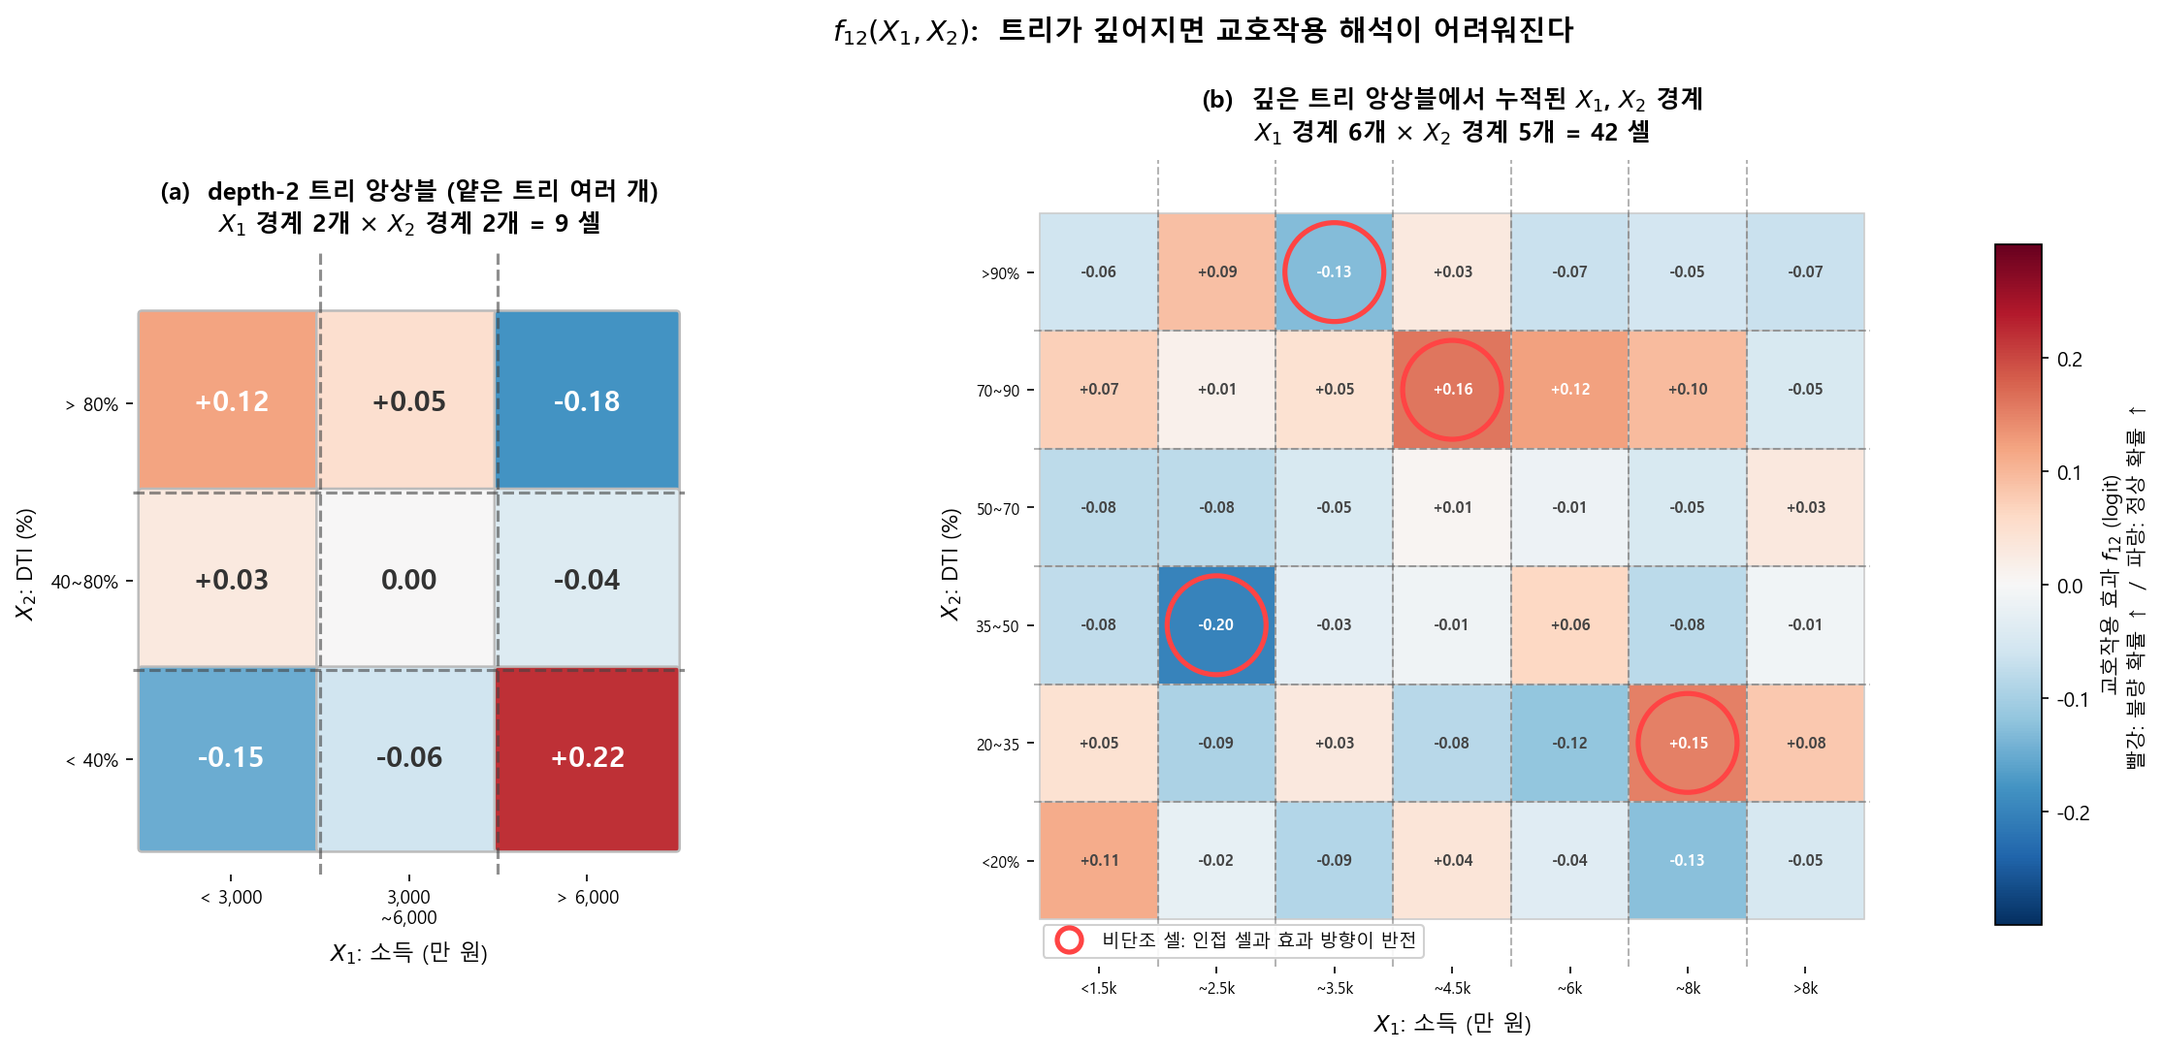
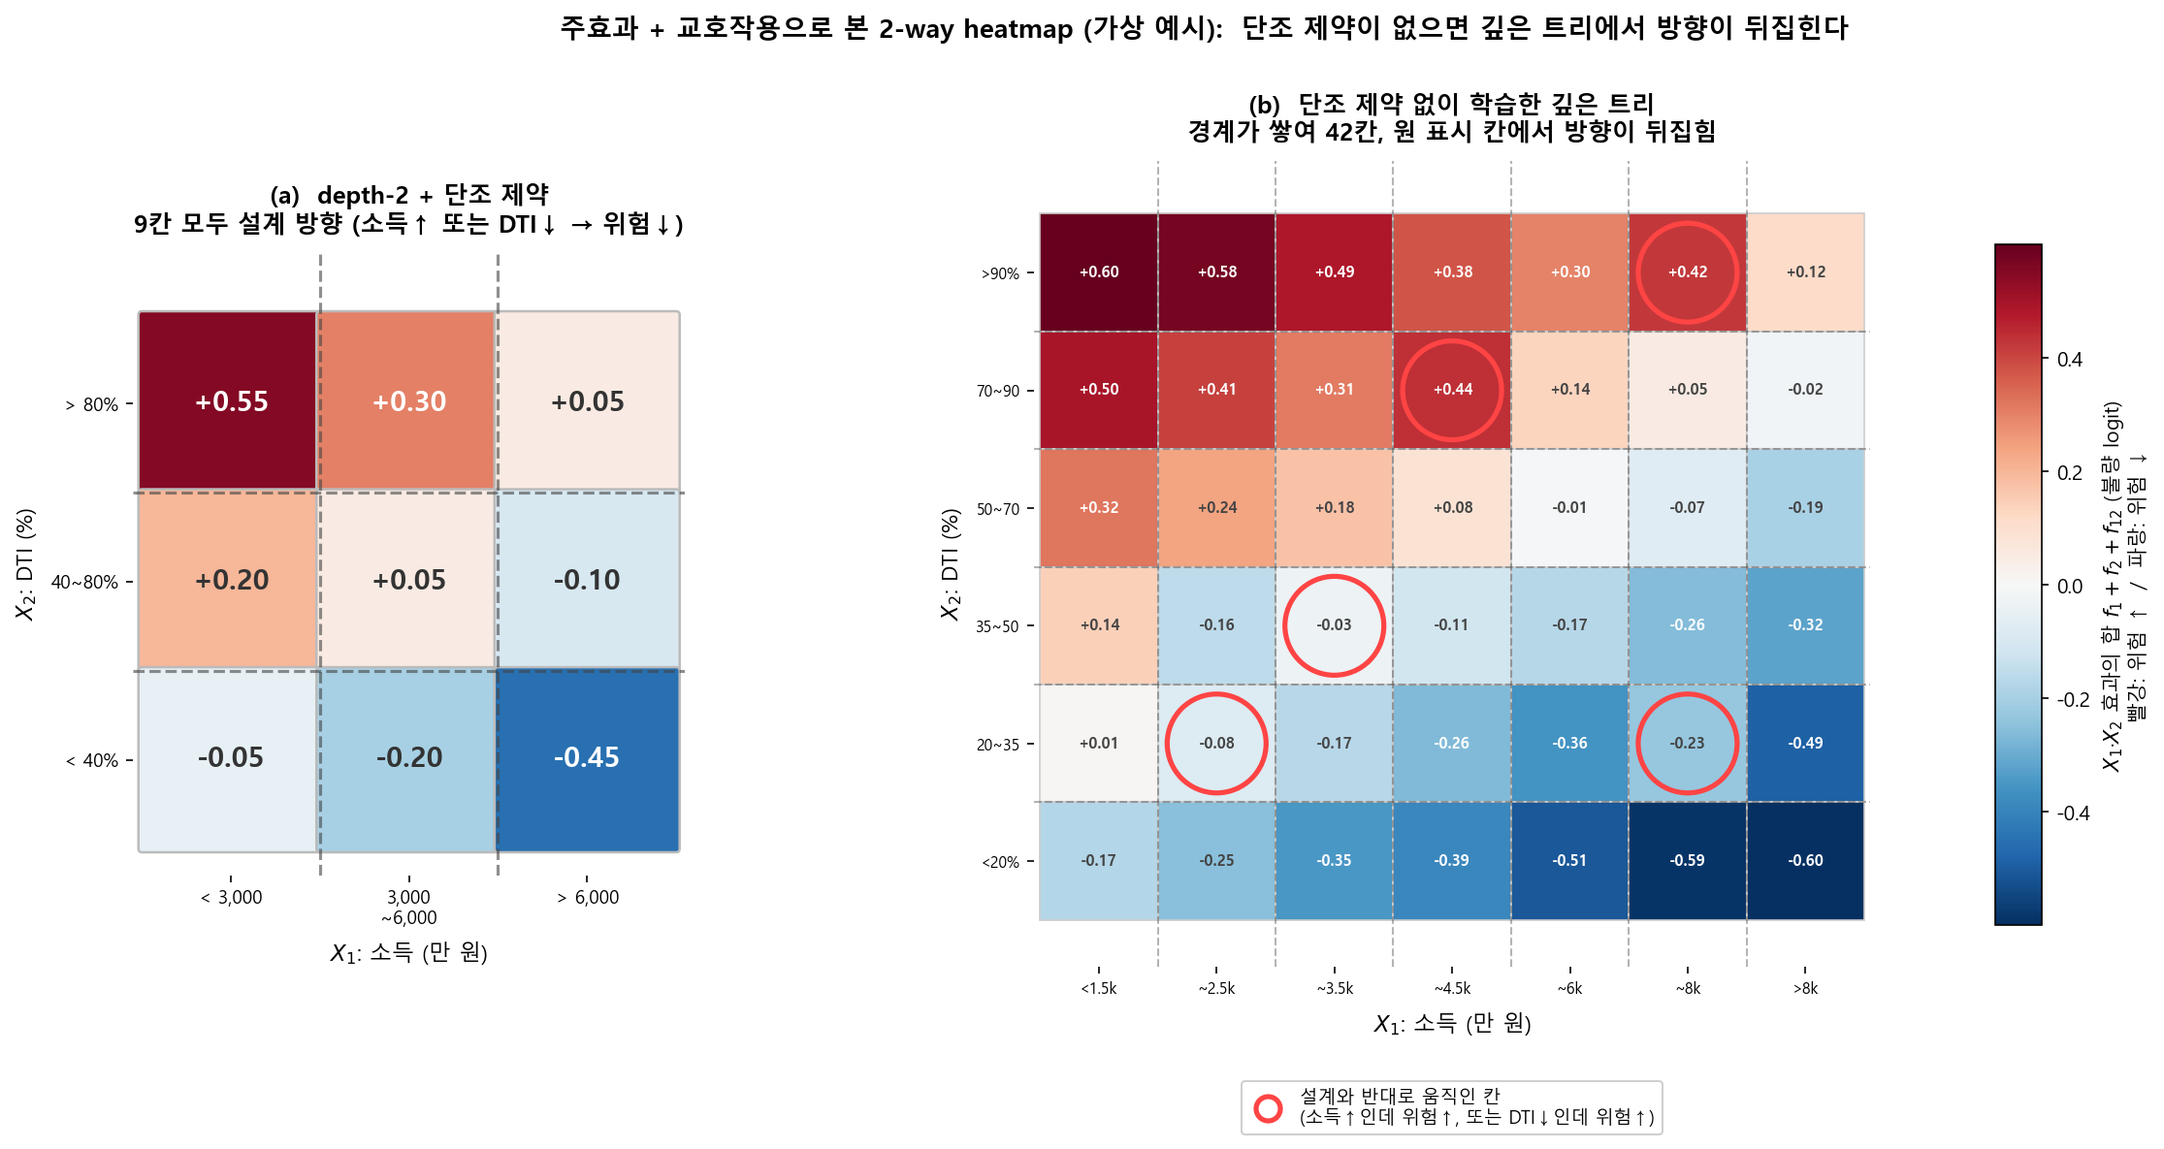
docs: ML 해석 — 단조 제약의 보장 범위 정리와 2-way heatmap 그림 교체
- 해석 가능성 1.4절에 '단조 제약은 어디까지 지켜 주나' 신설: 학습된 모형(보장) / 교호작용 표 단독(+·− 섞임 정상) / 점수표(깊이 2·독립 가중이면 보장, 3-way 절단·joint 가중·반올림 시 깨질 수 있음), 연체 Y/N 예시와 깊이 2 증명
- 2-way heatmap을 주효과+교호작용 합산 표로 다시 그림(왼쪽 깊이2+단조 제약, 오른쪽 단조 제약 없는 깊은 트리)
- ML 4부·부록·트리 앙상블·검증 등 21개 페이지에서 단조 제약 전제 누락, 단조 대상 혼동, 해석 조건 불일치 정정

diff --git a/docs/ml/appendix/shap-fanova/shap-vs-fanova.md b/docs/ml/appendix/shap-fanova/shap-vs-fanova.md
@@ -79,14 +79,14 @@ fANOVA는 교호작용을 분배하지 않고, **별도의 항으로 분리**한
 
 이 질문에 SHAP으로 답하면:
 
-- 소득의 SHAP 값에 교호작용 기여분이 섞여 있으므로, 특정 구간에서 **비단조적 패턴**이 나타날 수 있다
+- 소득의 SHAP 값에 교호작용 기여분이 섞여 있으므로, 여러 고객의 SHAP 값을 소득 순으로 늘어놓으면 특정 구간에서 **비단조적 패턴**이 나타날 수 있다
 - 이것이 소득 자체의 비단조성인지, 다른 변수와의 교호작용 때문인지 변수별 SHAP 값만으로는 **구분하기 어렵다**
 - 분해 방식에 따라 주효과의 부호까지 달라질 수 있다는 점은 실제 데이터에서도 확인되었다. Lengerich et al. (2020, 6.1절)의 COMPAS 실험에서, 교호작용 없이 학습한 XGBoost의 주효과 다수가 GAM이나 purification을 거친 모형들의 주효과와 반대 부호였다([3절](purification.md) 참조)
 
 fANOVA(+ purification)로 답하면:
 
 - 주효과 \(f_1(X_1)\)은 소득만의 효과로 분리되어 있으므로, 단조성 여부를 **직접** 확인할 수 있다
-- 비단조적 패턴이 있다면 그것은 교호작용이 아니라 **소득 자체의 비선형성**이다
+- product measure로 분해한 주효과에 비단조 구간이 있다면, 그것은 교호작용 탓이 아니라 모형이 소득에 반응하는 방식 자체다
 - 모형 학습 시 소득에 단조 제약을 걸었다면, product measure로 구한 주효과는 단조 함수들의 평균이므로 **반드시 단조**다. 반면 상관을 반영한 joint measure의 주효과나 SHAP 값은 단조 제약 모형에서도 단조가 보장되지 않는다([부록 B 5절](../correlation-interpretation/practical-guide.md))
 
 ## 공통 한계 — 분포 선택이 해석을 바꾼다
@@ -136,7 +136,7 @@ GA\(^2\)M(EBM)이나 depth-2 트리처럼 교호작용을 2-way로 제한한 모
 | \(f_{\text{소득,부채}}(5000, 2000)\) | -0.4 | 소득×부채 순수 교호작용 |
 | **합계** | **-0.1** | 이 고객의 예측값 |
 
-교호작용을 변수에 나눠줄 필요 없이, **별도의 설명 항목으로 그대로 제시**하면 된다. \(f_{12}\)는 2차원 heatmap으로 시각화도 가능하다. 이 방식은 SHAP보다 **더 정직한 설명**이다 — 교호작용이 숨겨지지 않고, 무엇이 주효과이고 무엇이 교호작용인지 명확히 구분되니까.
+교호작용을 변수에 나눠줄 필요 없이, **별도의 설명 항목으로 그대로 제시**하면 된다. \(f_{12}\)는 2차원 heatmap으로 시각화도 가능하다. 단, 순수 교호작용 표는 주효과에 더하는 보정값이라 +와 −가 섞이는 것이 정상이며, 방향은 주효과와 더한 표로 읽는다. 이 방식은 SHAP보다 **더 정직한 설명**이다 — 교호작용이 숨겨지지 않고, 무엇이 주효과이고 무엇이 교호작용인지 명확히 구분되니까.
 
 EBM이 이 전략을 쓴다. 교호작용을 **2-way까지만 허용**하고 (GA\(^2\)M의 "²"이 그 뜻이다), 그 중에서도 FAST 알고리즘으로 **유의미한 pair만 선별**한다. 변수 20개 모형이라면:
 
@@ -152,12 +152,12 @@ depth가 깊어져서 \(X_1, X_2, X_3\)가 혼재된 3-way interaction이 나타
 
 <figure markdown="span">
   ![2-way interaction heatmap](images/interaction_2way.png){ width="780" }
-  <figcaption>2-way interaction은 heatmap 한 장으로 패턴이 보인다. 트리가 깊어지고 많아질수록 분할 경계가 누적되어 셀 수가 늘고, 인접 셀끼리 효과 방향이 뒤집히는 구간이 생겨 읽기 어려워진다.</figcaption>
+  <figcaption>2-way까지는 heatmap 한 장으로 볼 수 있다. 두 그림 모두 주효과와 교호작용을 더한 값이다(가상 예시). 왼쪽은 깊이 2에 단조 제약을 건 모형으로 9칸 모두 설계 방향이고, 오른쪽은 단조 제약 없이 깊게 학습한 모형으로 분할 경계가 쌓여 42칸이 되고 원으로 표시한 칸에서 방향이 뒤집힌다. 단조 제약을 걸면 깊은 모형도 방향은 뒤집히지 않지만, 칸이 많아 검토하기 어려운 문제는 남는다.</figcaption>
 </figure>
 
 <figure markdown="span">
   ![3-way interaction cube](images/interaction_3way_cube.png){ width="480" }
-  <figcaption>3-way interaction은 3차원 큐브가 된다. 8개 셀의 방향과 크기를 직관적으로 파악할 수 있는가?</figcaption>
+  <figcaption>3-way interaction은 3차원 큐브가 된다. 각 칸은 주효과와 2-way 합에 더하는 보정값인데, 8개 칸의 방향과 크기를 직관적으로 파악할 수 있는가?</figcaption>
 </figure>
 
 **항 수의 폭발**: 변수 20개에서 가능한 interaction 수:
@@ -170,7 +170,7 @@ depth가 깊어져서 \(X_1, X_2, X_3\)가 혼재된 3-way interaction이 나타
 
 3-way만 허용해도 1,140개의 interaction 항이 가능하다. 이 중 유의미한 것만 선별하더라도, **하나하나의 해석 자체가 어렵다** (3차원을 직관적으로 이해하기 힘드니까). 항 수의 문제와 개별 항의 이해 가능성 문제가 동시에 발생한다.
 
-이때 SHAP이 빛을 발한다: 교호작용 차수가 아무리 높아도 **변수당 숫자 하나**로 요약해주므로, depth-6 XGBoost 같은 블랙박스에서도 개별 샘플 설명이 가능하다. 교호작용 정보가 숨겨지는 대가를 치르지만, 3-way 이상에서는 그 교호작용을 어차피 해석할 수 없으니 합리적 트레이드오프다.
+이때 SHAP이 빛을 발한다: 교호작용 차수가 아무리 높아도 **변수당 숫자 하나**로 요약해주므로, depth-6 XGBoost 같은 블랙박스에서도 개별 샘플 설명이 가능하다. 교호작용 정보가 숨겨지는 대가를 치르지만, 3-way 이상에서는 그 교호작용을 어차피 해석할 수 없으니 합리적 트레이드오프다. 반대로 이런 모형의 3-way 이상 항을 버리고 주효과와 2-way 표만으로 점수표를 만들면, 단조 제약을 걸었더라도 일부 칸의 방향이 뒤집힐 수 있다([단조 제약은 어디까지 지켜 주나](../../part4_interpretation/interpretability.md#monotone-guarantee)).
 
 **참고 — "설명 가능한 depth 제한"**: depth가 깊더라도, 한 트리 안에서 함께 쓸 수 있는 변수를 2개로 묶어 두면 각 pair는 2D heatmap으로 표현할 수 있다. XGBoost와 LightGBM은 이런 용도의 교호작용 제약(interaction constraints) 옵션을 제공한다. 핵심은 트리의 depth가 아니라 **하나의 interaction 항에 관여하는 변수 수**다. EBM이 2-way로 제한하는 것은 바로 이 이유 — 2차원까지는 그림으로 보여줄 수 있고, 3차원부터는 안 되기 때문이다. 이 가이드북이 해석 조건으로 삼는 "교호작용 2-way 이하, 단조 제약, 점수표 환산 가능"([해석 가능성](../../part4_interpretation/interpretability.md))도 같은 이유에서 나온다.
 

diff --git a/docs/ml/appendix/correlation-interpretation/practical-guide.md b/docs/ml/appendix/correlation-interpretation/practical-guide.md
@@ -58,10 +58,12 @@ fANOVA로 분산 분해를 보고할 때는 교차공분산 항을 함께 계산
 단조 제약(monotone constraint)은 상관 문제를 직접 해결하지는 않지만, 해석의 안정성을 높인다. 학습 시 어떤 변수에 단조 제약을 걸면, **다른 변수의 값을 어떻게 고정하든** 그 변수에 대해 모형 출력이 단조가 된다. 그 결과:
 
 - **product measure fANOVA의 주효과, PDP, ALE**: 단조 함수들의 평균(또는 단조 증가분의 누적)이므로 **반드시 단조**다.
-- **joint measure fANOVA의 주효과, observational 기대값**: 상관된 변수의 효과가 섞이므로 단조가 **보장되지 않는다.**
-- **SHAP 값**: 교호작용의 몫과 다른 변수와의 상관이 섞이므로, 같은 변수의 SHAP 값을 변수 값 순으로 늘어놓아도 단조가 **보장되지 않는다.**
+- **joint measure fANOVA의 주효과**: 가중이 변수 값마다 달라 '단조 함수들의 고정 가중 평균'이 아니므로 단조가 **보장되지 않는다.**
+- **observational 기대값**: 상관된 변수의 효과가 섞여 방향이 반대로 나올 수도 있다.
+- **SHAP dependence plot**(여러 고객의 SHAP 값을 변수 값 순으로 늘어놓은 그림): 고객마다 다른 변수 값이 달라 교호작용의 몫이 다르므로 단조 곡선으로 보이지 않을 수 있다. 다만 interventional SHAP은 한 고객의 다른 변수를 고정한 채 그 변수만 바꾸면 단조로 변한다(배경 데이터 위에서 단조 함수를 평균한 값이기 때문이다). observational·path-dependent SHAP은 이것도 보장되지 않는다.
+- **교호작용 표 단독**: 주효과에 더하는 보정값이라 +와 −가 섞이는 것이 정상이다. 방향은 주효과와 더한 표로 읽는다.
 
-즉 단조 제약 모형이라면, 효과 방향을 점검할 때는 단조성이 보장되는 interventional 계열의 결과를 기준으로 삼는 것이 일관적이다. 이 가이드북이 해석 가능한 ML의 조건으로 제시하는 "교호작용 2-way 이하, 단조 제약, 점수표 환산 가능"([해석 가능성](../../part4_interpretation/interpretability.md))은 이런 점검을 가능하게 하는 최소 조건이기도 하다.
+즉 단조 제약 모형이라면, 효과 방향은 product measure 주효과·PDP·ALE나 고객 단위의 interventional SHAP처럼 단조가 보장되는 결과로 점검하는 것이 일관적이다. 모형을 점수표로 옮길 때 방향이 깨질 수 있는 경우(깊은 모형의 3-way 이상 항 절단, joint 가중 분해, 항별 반올림)는 [단조 제약은 어디까지 지켜 주나](../../part4_interpretation/interpretability.md#monotone-guarantee)에 정리했다. 이 가이드북이 해석 가능한 ML의 조건으로 제시하는 "교호작용 2-way 이하, 단조 제약, 점수표 환산 가능"([해석 가능성](../../part4_interpretation/interpretability.md))은 이런 점검을 가능하게 하는 최소 조건이기도 하다.
 
 ## 5.6 신용평가에서의 실무 권장
 

diff --git a/docs/ml/part3_tree_ensemble/hyperparameter_tuning.md b/docs/ml/part3_tree_ensemble/hyperparameter_tuning.md
@@ -1,7 +1,7 @@
 # 하이퍼파라미터 튜닝
 
 !!! quote "설계 사상"
-    잘 튜닝된 XGBoost와 잘 튜닝된 LightGBM의 성능 차이는 대개 작다. 튜닝에서 더 중요한 것은 **무엇을 기준으로 고르는가**다. 신용평가에서는 valid 성능이 가장 높은 조합이 아니라, train·valid·OOT 성능이 안정적이고 해석 조건(단조성, 교호작용 제한)을 만족하는 **똑똑한 모형**을 고른다. 이 페이지는 그 기준 아래에서 각 파라미터를 어떻게 다루는지 정리한다.
+    잘 튜닝된 XGBoost와 잘 튜닝된 LightGBM의 성능 차이는 대개 작다. 튜닝에서 더 중요한 것은 **무엇을 기준으로 고르는가**다. 신용평가에서는 valid 성능이 가장 높은 조합이 아니라, train·valid·OOT 성능이 안정적이고 해석 조건(교호작용 2-way 이하, 단조성, 점수표 환산 가능)을 만족하는 **똑똑한 모형**을 고른다. 이 페이지는 그 기준 아래에서 각 파라미터를 어떻게 다루는지 정리한다.
 
 ---
 
@@ -66,8 +66,8 @@ $$
 
 신용평가에서 해석 가능한 ML을 만들 때 가장 중요한 두 파라미터다. 작동 원리는 [Boosting 심화](boosting_advanced.md)에서 다뤘다.
 
-- **단조 제약**: 연체 일수(+1, 위험 증가), 소득(−1)처럼 방향이 분명한 변수에 건다. 방향 근거가 없는 변수는 0(제약 없음)으로 둔다. 이 가이드북의 WoE 정의(\(\ln(\%\text{Good}/\%\text{Bad})\))로 변환한 변수를 넣는다면 방향은 모두 −1이다
-- **교호작용 제약**: 업무적으로 의미 있는 변수 쌍만 그룹으로 지정해, 교호작용을 그 쌍 안에서만 허용한다. `max_depth=2`와 함께 쓰면 교호작용이 2-way로 제한된다
+- **단조 제약**: 연체 일수(+1, 위험 증가), 소득(−1)처럼 방향이 분명한 변수에 건다. 방향 근거가 없는 변수는 0(제약 없음)으로 둔다. Bad 확률을 예측하는 모형에 이 가이드북의 WoE 정의(\(\ln(\%\text{Good}/\%\text{Bad})\))로 변환한 변수를 넣는다면 방향은 모두 −1이다
+- **교호작용 제약**: 업무적으로 의미 있는 변수 쌍만 그룹으로 지정해, 교호작용을 그 쌍 안에서만 허용한다. 그룹을 모두 변수 쌍으로 지정하면 깊이와 무관하게 교호작용이 2-way 이하로 제한되고, 변수 3개 이상인 그룹이 있다면 `max_depth=2`를 함께 써야 2-way가 보장된다
 
 제약을 걸면 학습 데이터 성능은 대개 조금 떨어지지만, train↔valid 격차가 줄고 해석 검토가 가능해진다. 제약 전후의 KS, AR을 OOT에서 비교해 판단한다. 해석 가능 조건의 기준은 [해석 가능성](../part4_interpretation/interpretability.md)에 정리되어 있다.
 

diff --git a/docs/ml/part5_validation/validation.md b/docs/ml/part5_validation/validation.md
@@ -104,12 +104,12 @@ Cross Matrix로 현행 모형과 ML을 함께 쓰는 하이브리드 구조는 [
 
 | 점검 대상 | 방법 |
 |---|---|
-| **변수별 방향** | SHAP dependence plot, PDP·ICE로 변수 값이 커질 때 예측 위험이 어느 방향으로 움직이는지 확인 |
-| **국소적 역전** | 전체 추세는 맞는데 특정 구간에서만 역전되는지(표본이 적은 극단 구간에서 흔함) 확인 |
+| **변수별 방향** | 고객 단위 ICE(다른 변수를 고정하고 그 변수만 바꿔 본 예측)로 모형 자체의 방향을 확인하고, SHAP dependence plot·PDP로 전체 경향을 본다. 교호작용 표 하나만 보고 +와 −가 섞였다고 위반으로 판단하지 않는다 |
+| **국소적 역전** | 전체 추세는 맞는데 특정 구간에서만 역전되는지 확인. 단조 제약이 없는 변수에서 표본이 적은 극단 구간에 흔하다(제약을 건 변수는 역전 대신 평평해진다) |
 | **상관 변수의 부호 분담** | 상관이 높은 변수 쌍에서 한쪽은 정방향, 다른 쪽은 역방향으로 나뉘어 보이는지 확인 ([부록 B. 변수 상관과 모형 해석](../appendix/correlation-interpretation/index.md)) |
 | **등급별 불량률 단조성** | OOT에서 등급이 나빠질수록 실현 불량률이 단조 증가하는지 확인 ([OOT 검증](../../scorecard/part5_scorecard/oot-validation.md)) |
 
-방향이 중요한 변수에는 학습 단계에서 **단조 제약(monotone constraint)**을 거는 것이 근본 대책이다. XGBoost·LightGBM 등 주요 부스팅 라이브러리가 이 옵션을 제공한다.
+방향이 중요한 변수에는 학습 단계에서 **단조 제약(monotone constraint)**을 거는 것이 근본 대책이다. XGBoost·LightGBM 등 주요 부스팅 라이브러리가 이 옵션을 제공한다. 제약이 보장하는 것은 모형 예측의 방향이며, 모형을 점수표로 옮긴 경우에는 반올림한 최종 점수표에서 방향을 다시 확인한다([단조 제약은 어디까지 지켜 주나](../part4_interpretation/interpretability.md#monotone-guarantee)).
 
 ### 1.4.5 세그먼트별 성능
 

diff --git a/docs/ml/appendix/shap-fanova/purification.md b/docs/ml/appendix/shap-fanova/purification.md
@@ -437,6 +437,8 @@ purification의 결과는 가중치 \(w\)에 의존한다. Lengerich et al. (202
 
 원논문의 순수 교호작용 정의(Definition 1)는 데이터의 실제 분포 \(p(x)\)를 가중으로 쓰는 것이며, 이는 상관된 변수에 대한 일반화 fANOVA(Hooker, 2007)에 해당한다. 반대로 [2절](functional-anova.md)의 깔끔한 성질들 — 모든 component 간 직교, 분산 분해 — 은 product measure에서만 그대로 성립한다. 결국 empirical 가중으로 purification하면, 그 결과를 데이터 분포 위에서 분산 분해할 때 component 간 교차공분산이 남는다. 측도 선택에 따라 무엇이 달라지는지는 [부록 B 2절](../correlation-interpretation/joint-vs-product.md)에서 수치 예시로 정리한다.
 
+단조 제약을 건 모형이라면 가중 선택은 방향에도 영향을 준다. Uniform(product) 가중으로 정제한 주효과와 '주효과 + 교호작용' 표는 제약 방향을 그대로 따르지만, empirical(결합 분포) 가중은 그런 보장이 없다([단조 제약은 어디까지 지켜 주나](../../part4_interpretation/interpretability.md#monotone-guarantee)).
+
 ---
 
 ## Purification이 실제로 무엇을 바꾸는가 — 실증 사례
@@ -483,7 +485,7 @@ purification의 결과는 가중치 \(w\)에 의존한다. Lengerich et al. (202
 | 모형 | Interaction 처리 | Purification 영향 |
 |------|-----------------|------------------|
 | XGB depth-1 (= GAM) | 없음 | 교호작용이 구조적으로 없으므로, main effect의 평균을 intercept로 옮기는 중심화만 일어난다 |
-| XGB depth-2 이상 | 자동 생성, 분리 설계 없음 | **매우 큼** — main effect 부호까지 변할 수 있음 |
+| XGB depth-2 이상 | 자동 생성, 분리 설계 없음 | **매우 큼** — 학습된 그대로의 분해와 비교하면 main effect 부호까지 변할 수 있음(단조 제약 + product 가중으로 정제한 주효과는 제약 방향을 따른다) |
 | GA\(^2\)M (EBM) | 2단계 학습으로 분리 시도 | 대부분 분리되지만 잔여 누출이 남을 수 있어 purification으로 보정 (아래 참조) |
 
 ---
